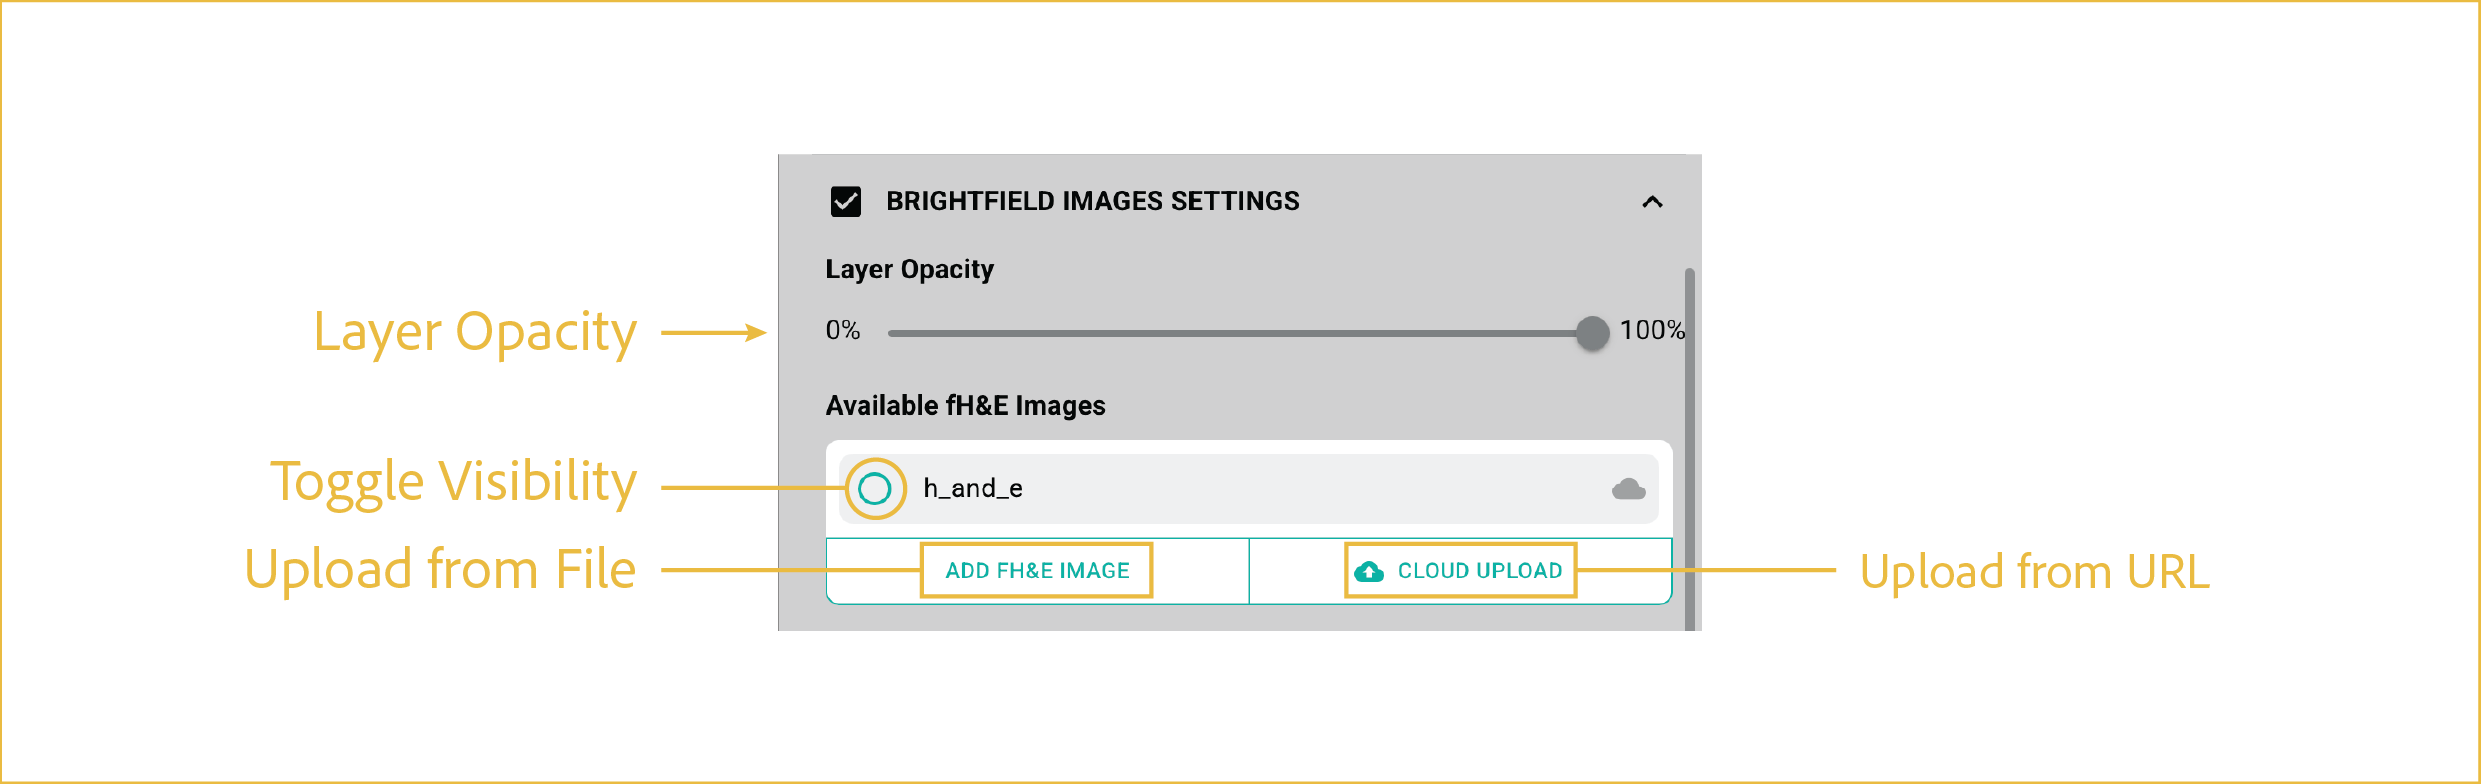
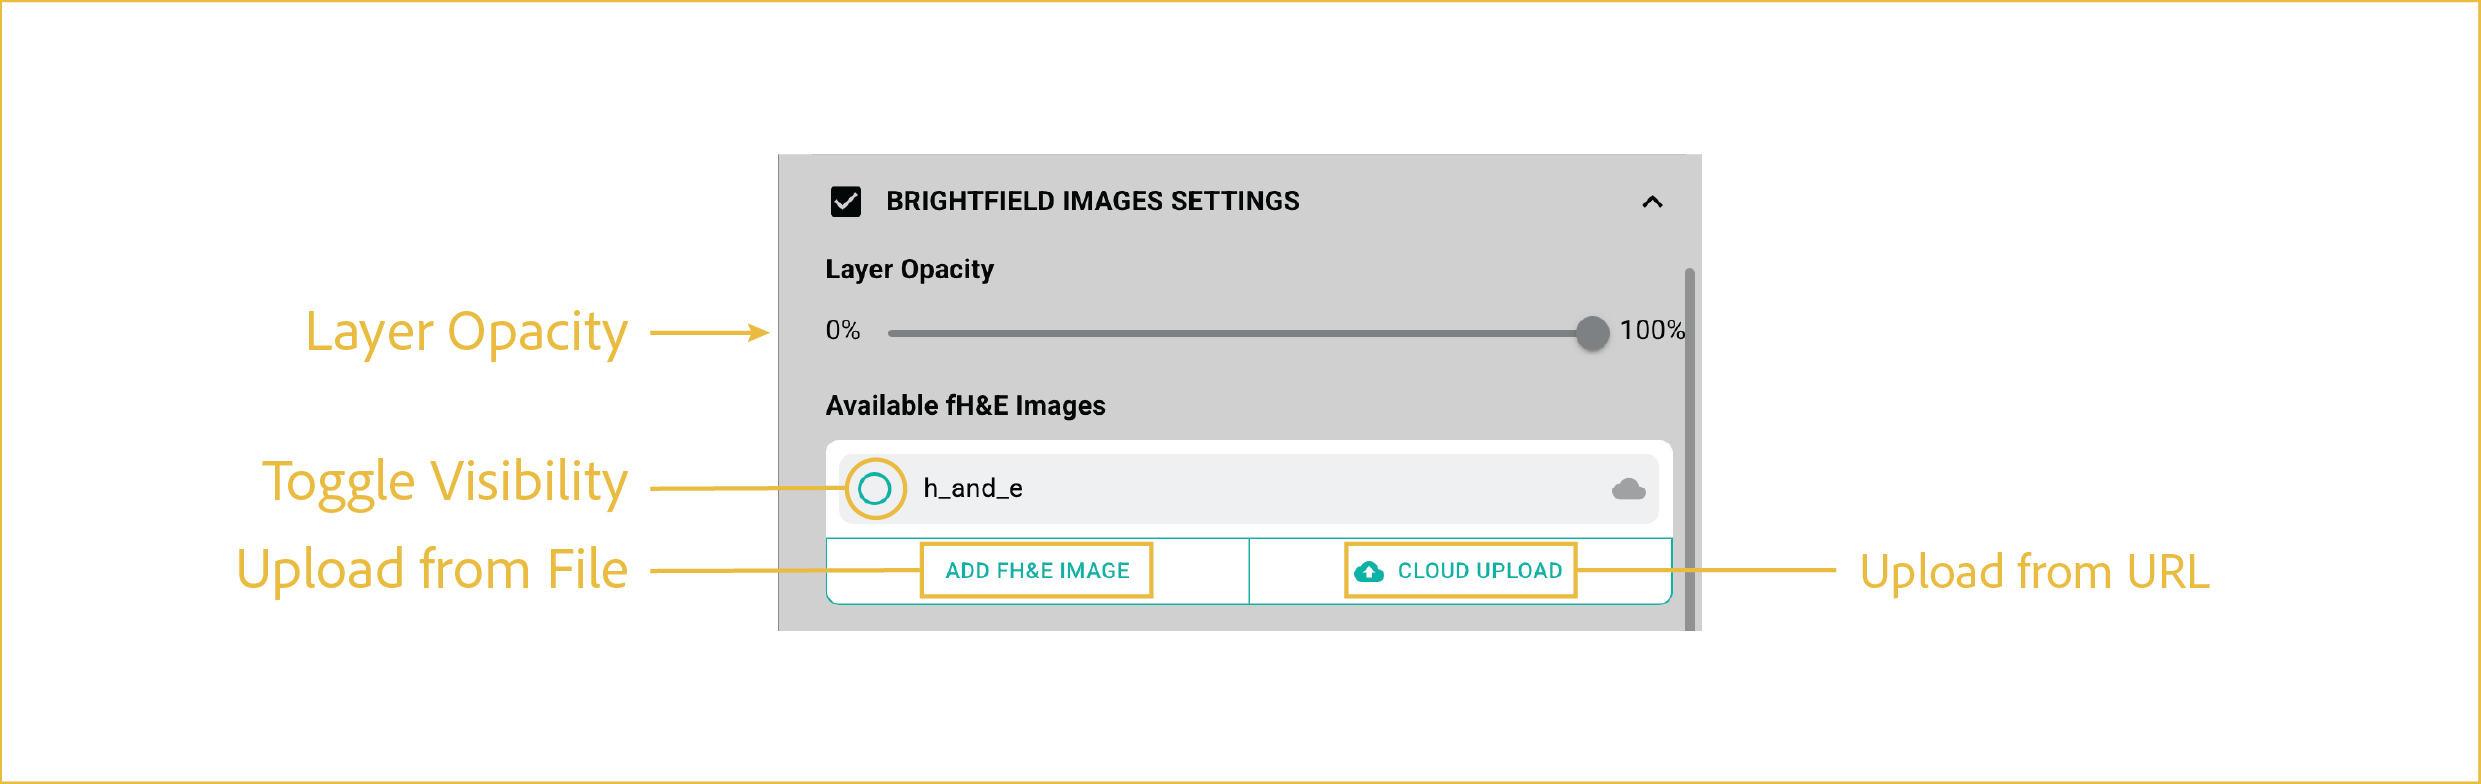
Finished sync between all images and feature names.

Changed region(s): [[0.0931, 0.5816, 0.3104, 0.6735], [0.0931, 0.7041, 0.2793, 0.7653], [0.1241, 0.398, 0.2793, 0.4592]]

diff --git a/docs/usage/on_screen_controls.md b/docs/usage/on_screen_controls.md
@@ -14,44 +14,68 @@ This section describes the buttons and interactive tools that are available dire
 
 ## features
 
-- <b><u>Screenshot Tool:</u></b>
+- <b><u>Open Dashboard:</u></b>
 
-      Capture screenshots directly from the viewer and save them to your local device.
+    Opens the [dashboard](../dashboard/index.md) feature for analysis of user-selected ROIs. Changing between **Dashboard** and **Viewer** does not open a new instance and shares a save state between the two tabs.
 
-      Screenshots include only the current viewing area and exclude viewer interface elements such as side panels, menus, and buttons.
+- <b><u>View G4X Summary Report:</u></b>
 
-- <b><u>Import/Export Polygons:</u></b>
+    Opens the G4X Sample Summary Report HTML report. This report details core run statistics and information to help rapidly QC your data. This report is also found in the root directory for each sample. For more details on standard output files, see [G4X data](https://docs.singulargenomics.com/g4x_data/).
 
-      Import or export ROI polygons and their associated metadata.
+- <b><u>Sample Metadata:</u></b>
 
-      Exported files can include:
+    Opens a pane that displayed details metadata for the run, pulled from sample sheet, sample-specific metadata, and more. All of this data is found in the standard output files, though not all in the same place. For more details on standard output files, see [G4X data](https://docs.singulargenomics.com/g4x_data/).
 
-      - Polygon vertices
-      - ROI metadata
-      - ROI contents
+- <b><u>Expand/Collapse Control Bar:</u></b>
 
-      Supported export formats include **JSON** and **CSV**. Exported polygon coordinates can be imported later to restore previously saved ROIs.
+      Expands/Collapses the side panel for controlling display settings described in all other sections.
 
-- <b><u>Draw Polygon (ROI Selection):</u></b>
+- <b><u>Interaction Menu:</u></b>
 
-      Create custom regions of interest (ROIs) for analysis and export.
+    This menu is displayed by default with only the elements shown in the gold box. All elements from **Edit Polygons** onward appear once you have toggled Drawing Mode by clicking the **Draw Polygon** button.
 
-      To draw an ROI:
+    - **Screenshot:** Capture screenshots directly from the viewer and save them to your local device. Screenshots include only the current viewing area and exclude viewer interface elements such as side panels, menus, and buttons.
 
-      1. Click **Draw Polygon**.
-      2. Left-click within the image to place the first vertex.
-      3. Continue left-clicking to add additional vertices and refine the polygon shape.
-      4. Double-click the starting vertex to close and finalize the ROI.
+    - **Export/Import Polygons:** Import or export polygons and their associated metadata. Exported files can include polygon vertices, metadata, and transcript contents. Supported export formats include **JSON** and **CSV**. Exported polygon coordinates can be imported later to restore previously saved ROIs using **JSON** files only.
 
-      There is no limit to the number of ROIs that can be created.
+    - **Draw Polygon (ROI Selection):** Create custom regions of interest (ROIs) for analysis and export. There is no limit to the number of ROIs that can be created. Once completed, the ROI is automatically analyzed for the cells, transcripts, and protein intensity contained within its boundaries. Polygons can be edited, imported, exported, and used for downstream analysis.
 
-      Once completed, the ROI is automatically analyzed for the cells, transcripts, and proteins contained within its boundaries. ROIs can be edited, imported, exported, and used for downstream analysis.
+        To draw a Polygon/ROI:
+
+        1. Click **Draw Polygon**. The menu will expand.
+        2. Left-click within the image to place the first vertex.
+        3. Continue left-clicking to add additional vertices and refine the polygon shape.
+        4. Double-click the starting vertex to close and finalize the Polygon.
+
+    - **Edit Polygon:** Edit the vertices of the polygons present in your current Viewer instance.
+
+    - **View Mode:** Hides on-screen labels for polygons and allows panning and zooming without visual obstructions.
+
+    - **Delete Polygon:** Allows you to delete polygons by clicking anywhere within their on-screen area.
+
+    - **Clear All Polygons:** Deletes all currently drawn polygons.
+
+    - **Disable Drawing:** Disables drawing mode and collapses the menu back to the first four elements.
+
+
 
 !!! tip "Multi-tissue Blocks (TMA-like Samples)"
 
     ROI selection is particularly useful for samples containing multiple independent tissue regions, such as tissue microarrays (TMAs).
 
     Individual tissue punches can be outlined separately, allowing independent export of transcripts and cell IDs for downstream analysis.
+
+- <b><u>ROI Focus:</u></b>
+
+    This menu appears once one or more Polygons are drawn. Here, you can select an ROI and see statistics about your selected ROI.
+
+- <b><u>ROI Notes:</u></b>
+
+    This section allows you to add notes about each ROI. For example, if you believe it to be a tumor or normal region of tissue, you could make a note of that or other pathologist assessments here.
+
+- <b><u>Selected ROI:</u></b>
+
+    The selected ROI is shown on screen in this manner with a white outline to visually indicate which one is being references above.
 
 <br>
 

diff --git a/docs/usage/protein.md b/docs/usage/protein.md
@@ -13,44 +13,39 @@ This section describes the controls available for visualizing and customizing pr
 
 ## features
 
-- <b><u>Protein Color Palette:</u></b>
+- <b><u>Color Palette:</u></b>
 
       Select the color palette used to display protein images. Available palettes are based on standard Plotly color schemes.
 
-- <b><u>Overview Image Toggle:</u></b>
 
-      Toggles the visibility of the overview image window in the lower-left corner of the viewer.
+- <b><u>Lens Toggle:</u></b>
 
-      The overview image provides a zoomed-out view of the entire sample and displays a red bounding box indicating the currently visible region of the viewer.
-
-- <b><u>Lens Tool:</u></b>
-
-      Enables the protein lens visualization tool.
-
-      When activated, a selection panel appears, allowing you to choose a protein channel. The selected channel is displayed in color within the lens area, while all other active protein channels are shown in grayscale.
-
-      The lens follows your cursor as you move across the sample and remains active until the tool is disabled.
+      Enables the protein lens visualization tool. When activated, a selection panel appears, allowing you to choose a protein channel to focus on with the **Lens** tool. The selected channel is displayed in color within the lens area (the lens tracks your cursor position), while all other active protein channels are displayed in grayscale.
 
 - <b><u>Import/Export Protein Settings:</u></b>
 
       Import or export protein visualization settings.
 
-      We recommend configuring your preferred protein display settings, exporting them, and reusing the saved configuration for future samples.
-
       - **Import:** Click the button and select a previously saved JSON configuration file.
-      - **Export:** Configure the protein settings as desired, then click **Export** and choose a save location and filename.
+      - **Export:** Configure the segmentation settings as desired, then click **Export** and choose a save location and filename.
 
-- <b><u>Protein Channel Settings:</u></b>
+!!! tip "Find and save your preferred settings"
+      We recommend configuring your preferred protein display settings once, then exporting and reusing the saved configuration for future samples to save time!
 
-      Protein channels include several configurable options that allow you to customize how protein data is displayed and interpreted.
+- <b><u>Protein Display Settings:</u></b>
 
-      - **Channel Toggle:** Enables or disables the selected protein channel.
-      - **Protein Channel:** Select the protein channel to display.
-      - **Color Selection:** Click the three vertical dots next to the channel dropdown to choose a display color.
-      - **Current Position Intensity:** Displays the intensity value at the current cursor location for the selected protein channel. Values for all active channels are displayed simultaneously.
-      - **Set Protein Min/Max:** Adjust the display intensity range by entering values manually or using the slider control.
-      - **Isolate Protein Channel:** Displays only the selected protein channel while hiding all others.
-      - **Add/Remove Channel:** Click **+ Add Channel** at the bottom of the panel to add a channel. To remove a channel, click the **×** button in the upper-right corner of the channel settings panel.
+      This section includes several configurable options that allow you to customize how protein data is displayed and interpreted.
+
+      - **Select Target:** Enables or disables the selected protein channel.
+      - **Toggle Visibility:** Enables or disables the selected protein channel.
+      - **Cursor Intensity:** Displays the intensity value at the current cursor location for the specific protein channel. Values for all active channels are displayed simultaneously.
+      - **Isolate Channel:** Displays only the selected protein channel while hiding all others.
+      - **Channel Min/Max:** Adjust the display intensity range by entering values manually or using the slider control.
+      - **Add Channel:** Adds an additional protein channel. A maximum of six protein channels are allowed simultaneously.
+      - **Delete Channel:** Deletes the specific protein channel.
+      - **Change Channel Color:** Allows selection of the channel color from a pre-set list of color options for the specific channel. Repeat color selections are allowed.
+      - **Expand Range:** Expands the default protein intensity range slider to allow broader **Channel Min/Max** values to be set for the specific channel.
+      - **Reset Default Range:** Resets **Channel Min/Max** values to default values for the specific channel.
 
 <br>
 

diff --git a/docs/usage/source_files.md b/docs/usage/source_files.md
@@ -14,16 +14,18 @@ This section describes how to load data into the G4X Viewer and manage the visib
 
 ## features
 
-- <b><u>Viewer File Upload:</u></b>
+- <b><u>Cloud Upload:</u></b>
 
-      The File Upload section is the starting point for loading data into the G4X Viewer.
+    With this button, you can paste a cloud storage link to stream the data into the Viewer in real time.
 
-      Depending on the viewer version, you will either:
+- <b><u>File Upload:</u></b>
+
+    Here, you can upload a file from your locally accessible storage devices. Depending on the viewer version, you will either:
 
       - Upload a single **Zarr** file (available beginning with Version 4.0.0), or
       - Upload multiple files directly from the **g4x_viewer** output directory generated by the G4X pipeline.
 
-      Each file contains a specific data layer or metadata component of the G4X assay:
+      If using the legacy data and viewer versions, each file will contain a specific data layer or metadata component of the G4X assay:
 
       - **`<sample_id>.ome.tiff`** — Contains all protein images stored as a composite image.
       - **`<sample_id>_HE.ome.tiff`** — Contains the fH&E image.
@@ -33,29 +35,26 @@ This section describes how to load data into the G4X Viewer and manage the visib
 
       For additional information about viewer-compatible output files, see the [g4x_viewer output documentation](https://docs.singulargenomics.com/g4x_data/output_files/g4x_viewer/).
 
-- <b><u>T- and Z-Slice Control:</u></b>
+- <b><u>Z-Layer Control:</u></b>
 
-      Enables navigation between image planes in multi-dimensional image datasets.
+      Enables navigation between image Z planes in multi-dimensional image datasets. Standard G4X datasets typically contain a single Z-plane, so these controls are usually fixed or unavailable during normal use.
 
-      - **T (Time) Axis:** Used for time-course image data.
-      - **Z Axis:** Used for multi-level image stacks.
+- <b><u>Manual Scaling:</u></b>
 
-      Standard G4X datasets typically contain a single time point and a single Z-plane, so these controls are usually fixed or unavailable during normal use.
+      This field controls the zoom level within the viewer by setting forcing the scale bar to represent a specific value. If zooming normally, the scale bar automatically updates as you zoom in and out of the image.
 
-- <b><u>Image Scaling:</u></b>
+- <b><u>Overview Toggle:</u></b>
 
-      Controls the scale bar displayed within the viewer.
-
-      You can manually specify the distance represented by the scale bar shown in the lower-right corner of the viewer. The scale bar automatically updates as you zoom in and out of the image.
+      Toggles on and off visibility of the image overview in the bottom left of the screen. This window displays the whole image in a thumbnail with the viewing area in a red rectangle to help understand your position on a sample when more zoomed in.
 
 - <b><u>Layer Toggles:</u></b>
 
-      Controls the visibility of image layers displayed in the viewer.
+      Toggles on and off the visibility of image layers displayed in the viewer.
 
-      - **Segmentation Layer:** Show or hide cell segmentation masks.
-      - **Transcript Layer:** Show or hide transcript locations.
-
-      The protein image layer cannot be disabled because it serves as the base image to which all other layers are aligned.
+      - **Channel Settings:** Show or hide protein image layers.
+      - **Brightfield Image Settings:** Show or hide the fH&E layer.
+      - **Transcript Layer Settings:** Show or hide transcript dots.
+      - **Segmentation Layer Settings:** Show or hide cell segmentation masks.
 
 <br>
 

diff --git a/docs/usage/fhe.md b/docs/usage/fhe.md
@@ -21,7 +21,7 @@ This section describes the controls available for loading, displaying, and adjus
 
       Toggles whether the fH&E image is displayed.
 
-- <b><u>Upload File:</u></b>
+- <b><u>Upload Data:</u></b>
 
       These controls are used to load an fH&E image into the viewer. For Zarr-based datasets, the fH&E image is typically loaded automatically.
 
